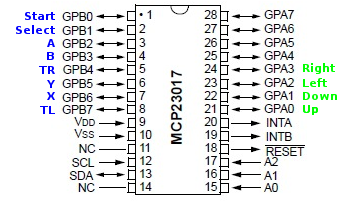
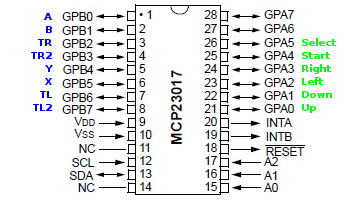
changed pinout summury images

Changed region(s): [[0.825, 0.1782, 0.9472, 0.5644], [0.0306, 0.0594, 0.1528, 0.297], [0.0917, 0.3267, 0.1528, 0.5644]]

diff --git a/README.md b/README.md
@@ -6,7 +6,7 @@ Introduction
 -------------
 The RaspberryPi is an amazing tool I discovered a month ago. The RetroPie project made me want to build my own Arcade Cabinet with simple arcade buttons and joysticks.
 
-The Raspberry Pi Board B Rev 2 has a maximum of 21 usable GPIOs, not enough to wire all the 24 switches (2 joystick and 16 buttons) that a standard panel requires.
+The Raspberry Pi Board B Rev 2 has a maximum of 21 usable GPIOs, not enough to wire all the 28 switches (2 joystick and 20 buttons) that a standard panel requires.
 
 A hardware solution
 -------------
@@ -16,7 +16,7 @@ The Software
 -------------
 The joystick driver is based on the gamecon_gpio_rpi driver by [marqs](https://github.com/marqs85)
 
-It is written for 4 directions joysticks and 8 buttons per player.
+It is written for 4 directions joysticks and 10 buttons per player.
 
 It can read one joystick + buttons wired on RPi GPIOs and up to 5 other joysticks + buttons from MCP23017 chips. One MCP23017 is required for each joystick.
 
